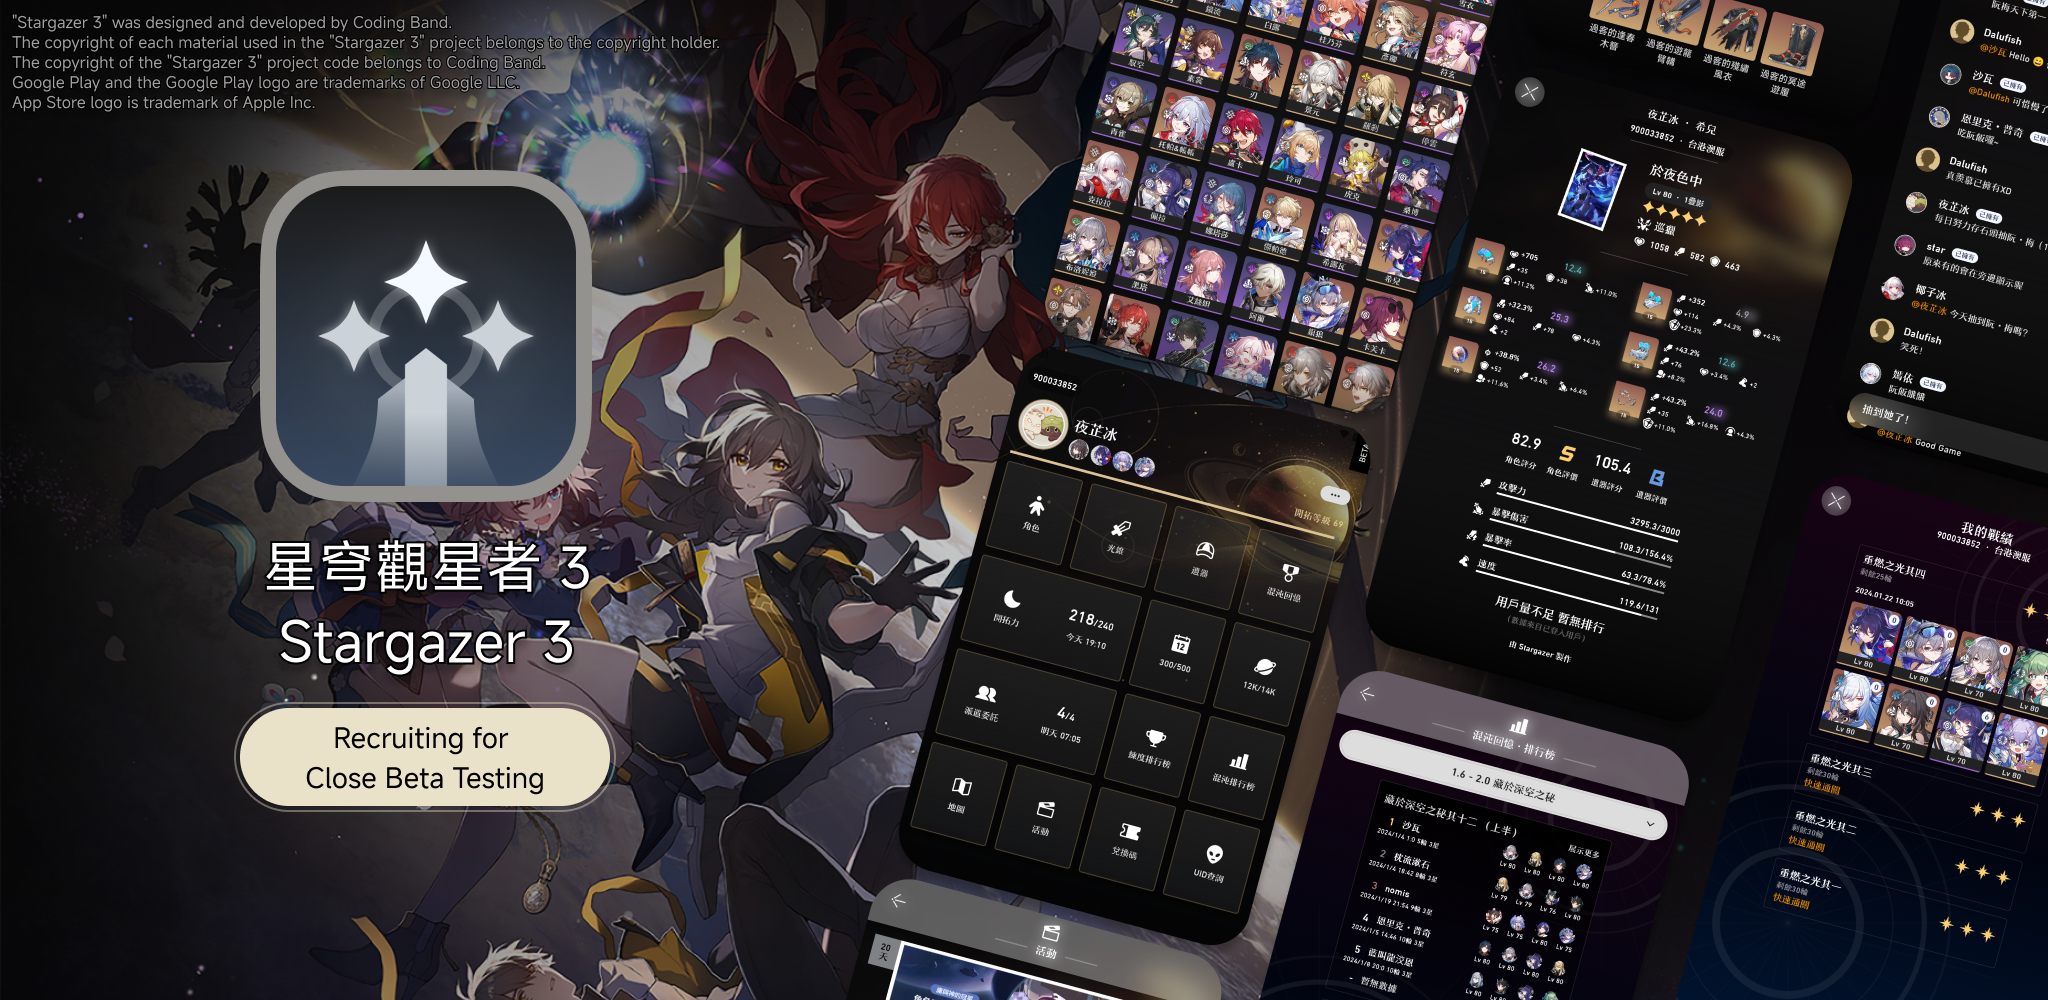
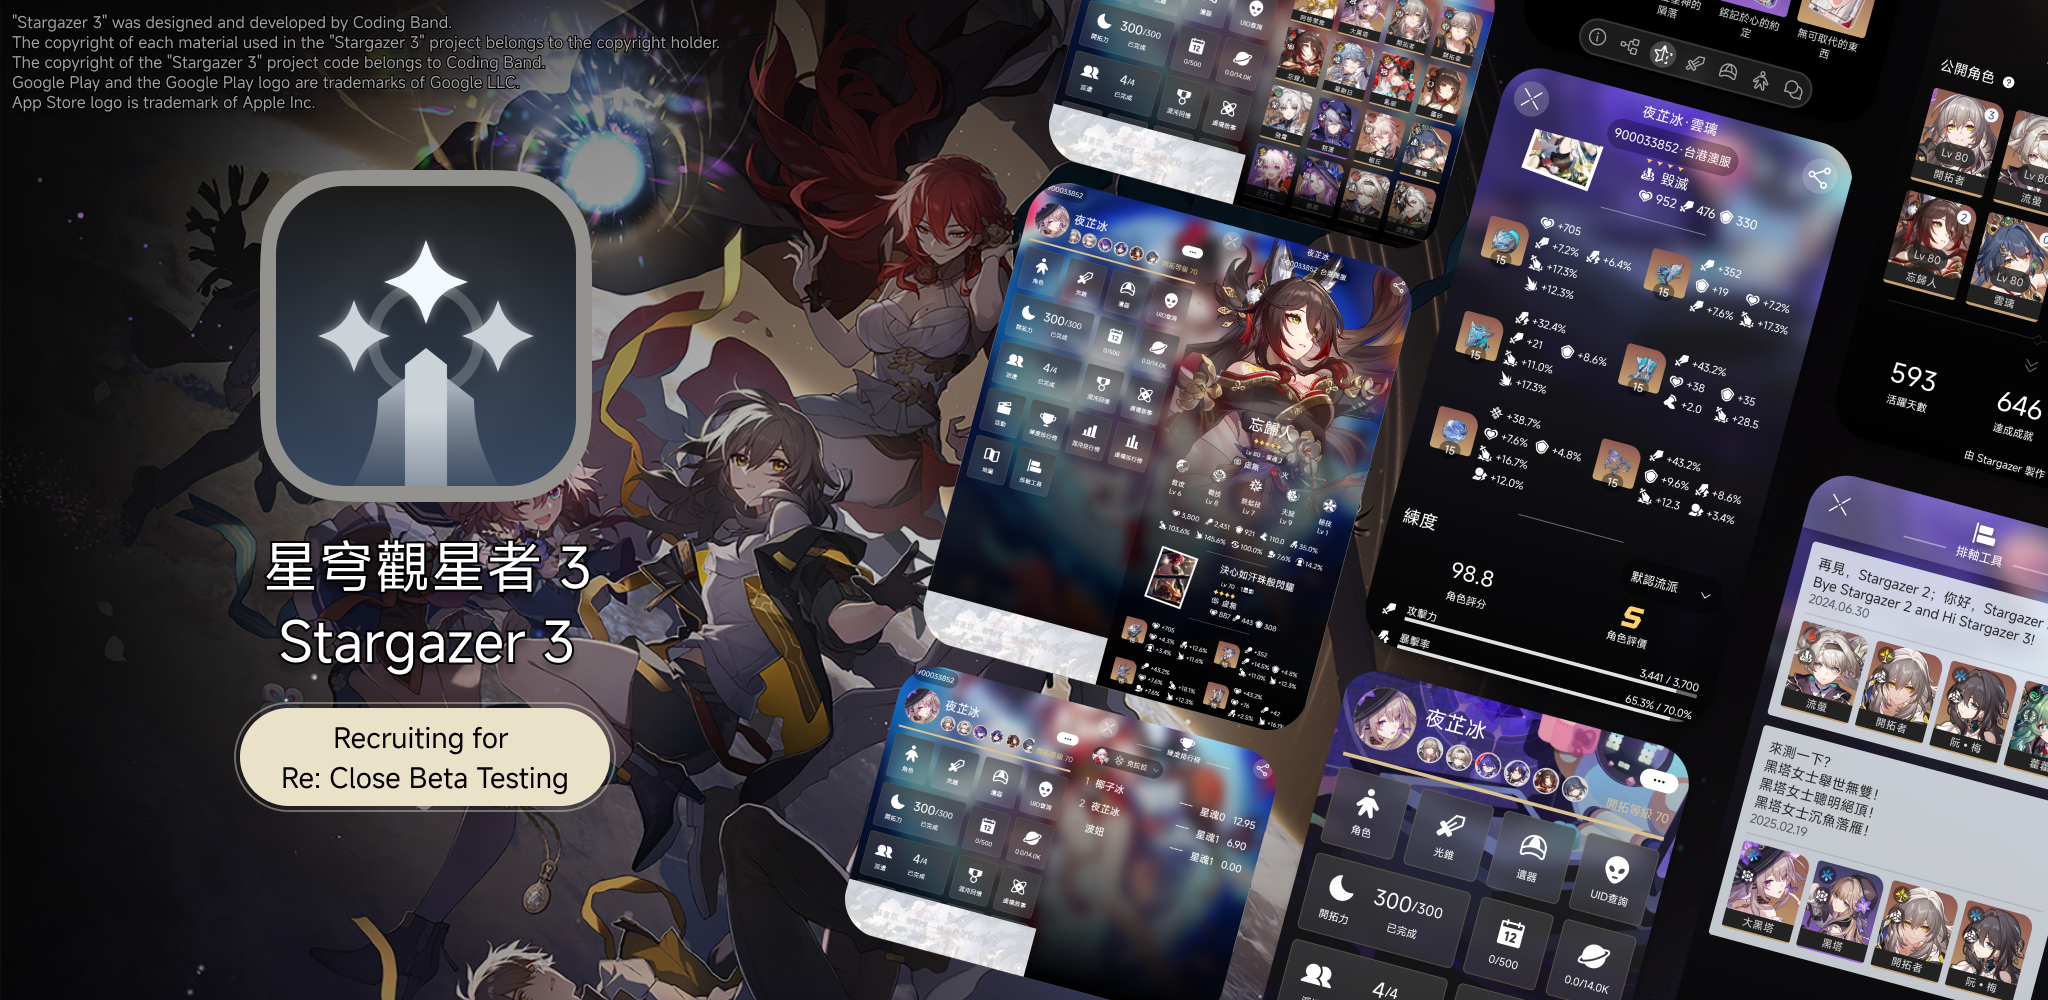
docs: Re: Close Beta Readme

diff --git a/docs/re_sg3_en.md b/docs/re_sg3_en.md
@@ -1,0 +1,84 @@
+# "Seems That the Star Rail Assistant App Is Being Remaded?"
+
+# Stargazer 3 Closed Beta Recruitment
+
+Hi Trailblazers!
+
+Long time no see (?) I’m Voc, the developer of Stargazer.
+Back in early July last year, we started the renewal project for `Stargazer`. However, due to personal reasons (not having enough time to complete it before semester started), we temporarily postponed the discontinuation of Stargazer 2. As Stargazer 2 has become increasingly unstable, we have finally decided to resume the renewal project during the winter break.
+
+Unlike the summer version, this revised version:
+    - Introduces support for tablets and large screens
+    - Refines UI details
+    - Modifies the app update logic
+    - Separates all character/relic-related information and images from the main app
+
+After this remake, we will conduct a two-week closed beta for early versions. We invite interested and eligible Trailblazers to apply!
+
+## About This Closed Beta
+**Platforms:** Android, iOS (Windows and Mac applications are also accepted)
+**Number of Testers:** +30 (Existing testers will automatically qualify and do not need to reapply)
+**Testing Period:** February 19, 2024 - March 4, 2024 (Applications remain open during the testing period)
+
+- **Closed Beta Content:**
+  - Character, Light Cone, and Relic data pages
+  - User login
+    - HoYoverse Passport (Android & iOS only), Cookies login
+  - User current data
+    - Homepage display data
+    - Detailed character pages
+  - Leaderboard
+    - Character ratings
+  - Large screen support (iPad, Desktop)
+  - Action Order Simluator
+
+## What Are the Requirements?
+Owning an Android or iOS device:
+- **Android:** Android 10.0 or above
+- **iOS:** iOS 16 or above
+- **Windows:** Windows 10 or above
+- **macOS:** Apple Silicon
+
+## Willing to Test and Provide Feedback (This is very important to us!)
+Willing to comply with the closed beta rules:
+- Do not publicly or privately distribute any beta versions to anyone
+- Do not unpack, capture packets, decompile, or repackage the app [Click here to view the app source code]
+- The beta version does not represent the final release; it is solely for early testing. Please keep this in mind.
+- Do not maliciously attack the server or disrupt its normal operation
+- Please note that all team members are volunteers. No compensation will be provided, nor will any fees be charged.
+- Anyone who violates the rules will be permanently disqualified from testing and blacklisted.
+- Please follow the instructions provided in our Discord server channels for testing.
+
+**Star Rail players will be given priority consideration.**
+
+## How to Apply?
+If you wish to apply for this recruitment, please first join our Discord server and send a private message to @yukina4096 with:
+- The platform(s) you want to test on (Android and/or iOS) and/or (Windows and/or Mac)
+- Your email address (For iOS, please provide an email linked to an Apple ID)
+- Your Honkai: Star Rail UID (for error tracking and debugging purposes; please use an account with this UID during testing)
+
+We will respond as soon as possible upon receiving your application. If accepted, you will be assigned the appropriate role in the server. Thank you!
+
+## Frequently Asked Questions
+
+**Q: I see that the app has a login feature. Is logging in mandatory to use the app?**  
+**A:** Most functions in Stargazer 3 do not require login and can be used right away. For example, you can check your support characters by searching for a UID without logging in. However, logging in allows you to view all your character data by tapping your avatar on the homepage.
+
+**Q: Just to confirm, does your login function require entering my credentials on the official website?**  
+**A:** Yes. To lower the technical barrier, we provide a built-in function in the app. As always, we strictly do not intercept user accounts, passwords, or any sensitive data. We only retrieve the Cookies generated after you log in on the official website. Of course, you can manually enter Cookies instead. These Cookies are only stored locally and are not uploaded to the server. The PC version currently only supports manual input—sorry for the inconvenience.
+
+**Q: Hey, what happened to third-party login options?**  
+**A:** Due to technical limitations, we have been unable to implement third-party login despite multiple attempts. We apologize for this inconvenience.
+
+**Q: Wait, isn’t this supposed to be a remake? It looks the same as the previous version. What gives?**  
+**A:** Our focus is on user experience, program optimization, project structure refinement, and lowering maintenance costs. As a result, the interface remains largely similar to the previous version. If you have any suggestions for UI improvements, please don’t hesitate to report them in our Discord server (and please avoid posting in general chat!).
+
+**Q: You’ve been working on this for a month, but there are only a few pages?**  
+**A:** (Actually, I’m the only one working on this.) While rewriting the app, I aimed for a work-life balance rather than coding non-stop. Sometimes unexpected situations arise that slow down progress. Please understand that one person cannot work at the efficiency of two!
+
+**Q: What happens if I send an application at 3 AM?**  
+**A:** ( ˘•ω•˘ ) Sorry, I’m probably asleep. I’ll respond in the morning, so please reply as soon as possible!
+
+**Q: I want to know more!**  
+**A:** Please visit the Bahamut forum page for Stargazer 2 (the old version) for more details!
+

diff --git a/docs/re_sg3_gamer.tw.md b/docs/re_sg3_gamer.tw.md
@@ -1,0 +1,79 @@
+# 「聽説那款星鐵助手app回爐重做了？」
+
+# 星穹觀星者3 封測招募
+
+各位開拓者安安，
+    好久不見（？）我是夜芷冰，星穹觀星者 (Stargazer) 的開發者。
+在去年七月初的時候，我們開始了「星穹觀星者」換代的計劃，雖然後來因爲個人原因（開學來不及做好），暫緩執行對 Stargazer 2 的停止維護。但隨着 Stargazer 2 日漸增加的不穩定性，我們最終決定在寒假期間重新開始換代計劃。
+    有別於暑假的版本，這次Re版本：
+    - 引入了對平板、大螢幕的支援
+    - 對UI作出細節上的修正
+    - 修改App更新邏輯
+    - 把所有角色/遺器等資訊、圖片從App本體分離
+在經過這次回爐重做後，我們將會再次舉辦為期兩星期的早期版本封測，在此邀請各位有興趣和符合資格的開拓者提出申請~
+
+
+## 關於這次封測
+封測平台 : Android、iOS（可同時申請Windows、Mac）
+封測人數 : +30 人 (原封測者將自動獲得測試資格，無需再申請)
+封測時間 : 2024年2月19日 - 2024年3月4日
+封測期間仍接受申請~
+
+- 封測內容：
+  - 角色、光錐、遺器資料頁面
+  - 用戶登入
+    - Hoyoverse通行證 (僅Android, iOS)，Cookies登入
+  - 用戶當前數據
+    - 主頁面展示數據
+    - 用戶角色詳細頁面
+  - 排行榜
+    - 角色評分
+  - 大螢幕支援（iPad, Desktop）
+  - 排軸功能
+
+## 條件是甚麼？
+擁有 Android 或 iOS 裝置
+- Android : Android 10.0 或以上
+- iOS : iOS 16 或以上
+- Windows : Windows 10 或以上
+- MacOS : Apple Sillicon
+
+## 願意測試及主動提供反饋 (這個對我們蠻重要的！)
+願意遵守封測規則:
+- 不得公開、私下分發任何封測版本予任何人
+- 不得拆包、捉包、反編譯、重新打包App [按我看App源碼]
+- 封測版本並不代表正式版，版本僅用作各方面早期測試，務必注意
+- 不得惡意攻擊伺服器/使伺服器無法正常提供服務
+- 請留意，團隊内所有成員均為志願工作，並不會有任何報酬，亦不會向其收取任何費用
+- 任何違反規則者將被永久停止測試資格，並列入黑名單
+- 請按照我們在Discord伺服器頻道内的指示進行測試
+星鐵玩家將會優先考慮
+
+## 怎樣申請？
+若您有意申請本次招募，歡迎先加入我們Discord的伺服器、並私信@yukina4096:
+- 您想參加測試的平台(Android 或/和 iOS) 或/和 (Windows 或/和 Mac)
+- 您的電郵地址 (iOS 的話請記得提供有綁定 Apple ID 的電郵)
+- 您的星穹鐵道 UID （方便我們紀錄錯誤之類，測試時請用該 UID 的帳戶登錄）
+我們會在收到您的申請後盡快回覆，通過後並在伺服器給予相應的身份組，謝謝！
+
+## 一些常見問題？
+Q : 啊我看你們寫的App有登入功能，是不是一定要登入才能用？
+  A : Stargazer 3 大部分功能均可以無需登入，開箱即用的．例如查看自己協助角色，不登入的情況下可以透過查詢UID查看；當然，登入後能夠透過按下首頁頂部的用戶頭像，來看自己擁有的所有角色數據哦~
+
+Q : 要確定誒，你們登入功能居然是在官網填帳密？
+  A : 是的，為了降低使用技術門檻，我們特意在App內提供相關功能；在此先聲明一下：我們一如既往，絕不以任何形式截取用戶帳戶、密碼等敏感資料；我們僅會獲取用戶登入官網後的Cookies。當然，您亦可以選擇手動輸入Cookies，Cookies只會在本地存放，不會上載到伺服器；PC版目前僅支援手動輸入，請見諒。
+
+Q : 哈囉，是説第三方平台登入呢？去哪啦？
+  A : 由於技術所限，經過我們數次嘗試後仍然沒法成功做到。故目前也無法提供上述方法，實在抱歉
+
+Q : 誒不是，説是重製版，啊結果跟上版根本沒不同，啥意思呀？
+  A : 我們優化的重心是在用戶體驗、程序代碼、項目結構優化、維護成本下降等方面。所以，重製過後的介面會和舊版的大致相同。若果您認為介面上有任何可以優化/更正的地方，請別猶如，直接來我們Discord伺服器掛一個issue吧 (拜託不要再放閒聊了）
+
+Q : 明明寫了一個月了，啊怎麼就只有這幾頁
+  A : 我們（沒有，是我自己一個人）在重寫的期間，希望能做到Work-life-balance，不想日夜不停地寫，兼且有時候會有一些突發情況而沒法按原進度寫代碼。這個部分嘛...就還請多多見諒啦，一個我做不到兩個我的效率哦
+
+Q : 一封在凌晨三點給開發者的申請
+  A : ( ˘•ω•˘ ) 不好意思，我在睡覺中，早上看到的時候會發消息給您的，請盡快回覆哦~
+
+Q : 我想知道更多
+  A : 請稍移玉步，到我們 Stargazer 2 (舊版本) 的巴哈文瀏覽吧
